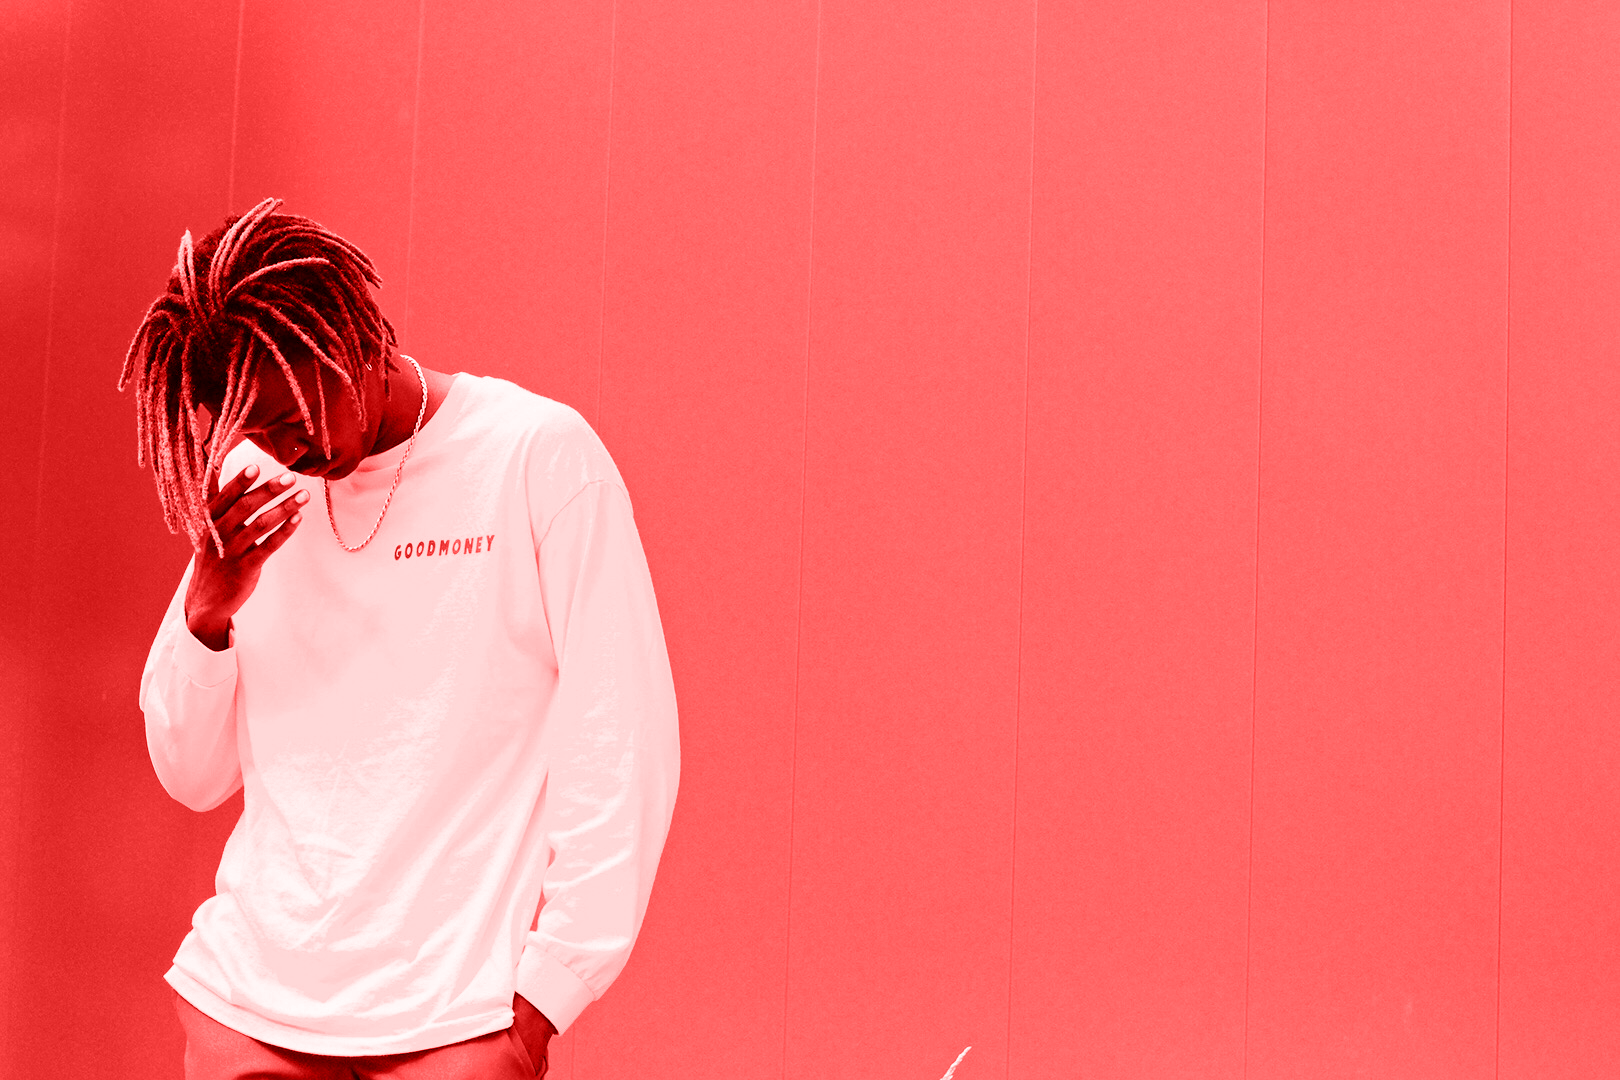
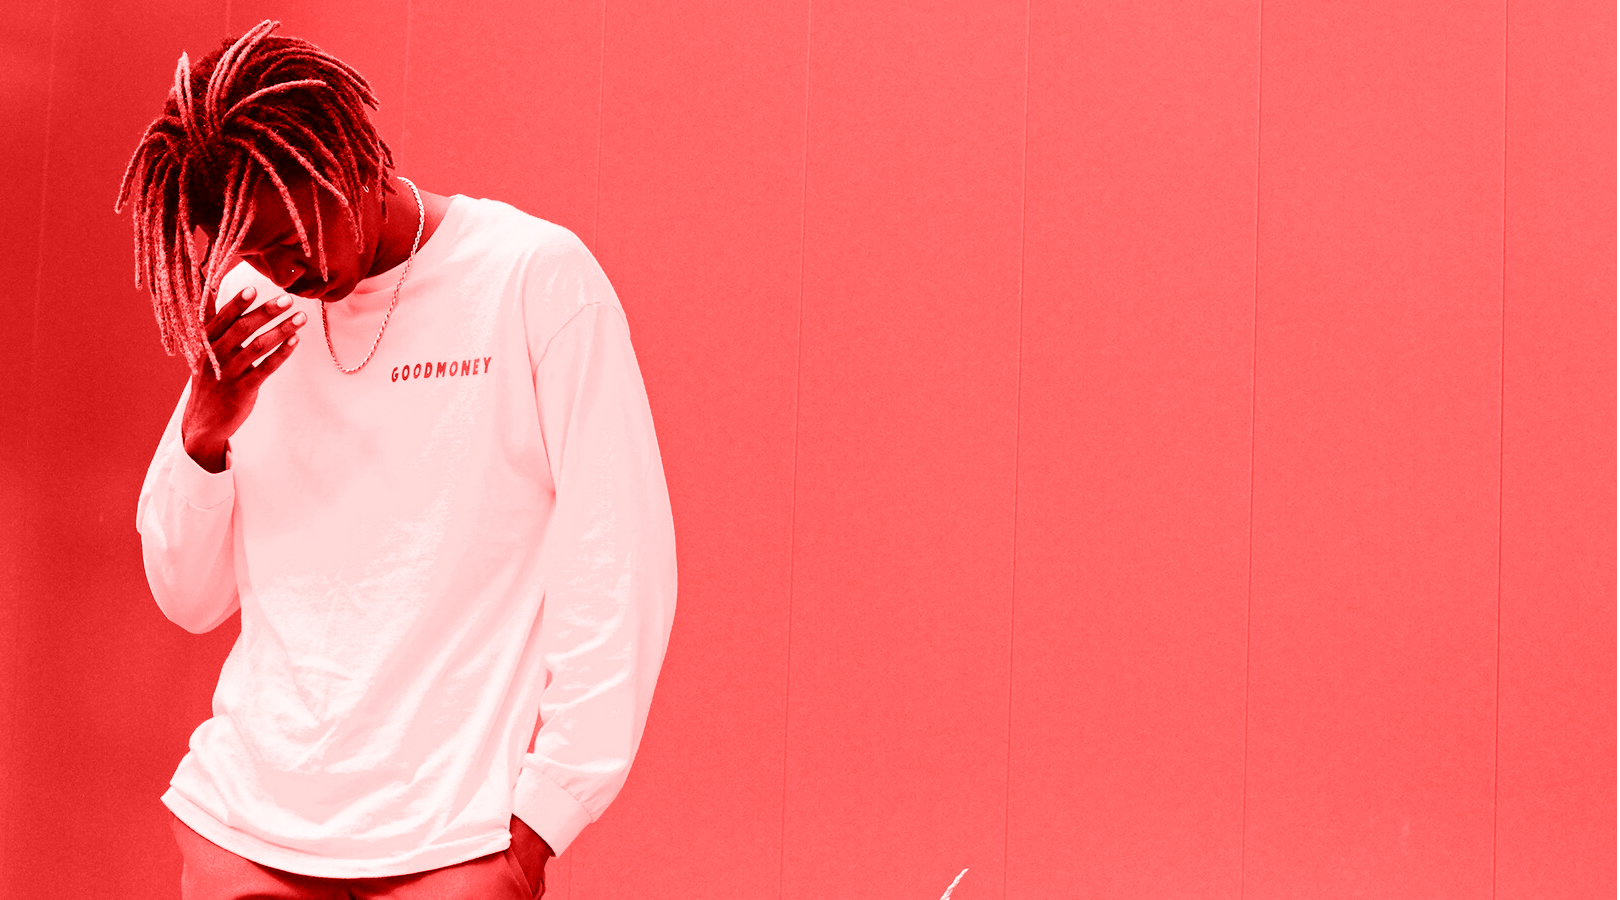
Header and Hero section

diff --git a/index.html b/index.html
@@ -5,12 +5,29 @@
         <meta name="viewport" content="width=device-width, initial-scale=1.0">
         <meta http-equiv="X-UA-Compatible" content="ie=edge">
         <link rel="stylesheet" href="css/style.css">
+        <!-- FONT AWESOME -->
+        <link rel="stylesheet" href="https://cdnjs.cloudflare.com/ajax/libs/font-awesome/5.15.4/css/all.min.css">
+        <title> brvo - Cart </title>
     </head>
     <body>
         <div class="container">
             <header class="site-header">
-                Testing...
+                <div class="site-header__logo-box">
+                    <img src="img/logo.png" alt="logo"/>
+                </div>
+                <div class="site-header__cart-box">
+                    <i class="fas fa-shopping-bag site-header__icon"></i>
+                    <span class="site-header__items"></span>
+                </div>
             </header>
+            <div class="content">
+                <section class="hero">
+                    <div class="hero__title">
+                        <h1 class="display-1"> ABSTRACT </h1>
+                    </div>
+                    <img src="img/hero.png" alt="hero image" class="hero__image img-fluid"/>
+                </section>
+            </div>
         </div>
     </body>
 </html>

diff --git a/css/style.css b/css/style.css
@@ -1,3 +1,4 @@
+@import url("https://fonts.googleapis.com/css2?family=Poppins:wght@400;700&family=Work+Sans:wght@400;700&display=swap");
 * {
   margin: 0;
   padding: 0;
@@ -14,9 +15,52 @@ html {
   font-size: 1rem;
 }
 
+/*
+    FONTS
+*/
+h1, h2, h3, h4 {
+  font-family: "Poppins", sans-serif;
+  font-weight: 700;
+}
+
+/*
+    COLORS
+*/
+/*
+    DISPLAY FONTS
+*/
+.display-1 {
+  font-size: 5rem;
+}
+
 .container {
   max-width: 100%;
-  margin: 2rem;
+  width: 100%;
+  padding: 0 2rem;
+}
+
+.hero__image {
+  height: 900px;
+}
+.hero__title {
+  position: absolute;
+  top: 50%;
+  left: 50%;
+  transform: translate(-50%, -50%);
+  opacity: 0.8;
+  color: #f3f3f3;
+}
+
+.site-header {
+  display: flex;
+  justify-content: space-between;
+  align-items: center;
+  padding: 1.5rem 0;
+}
+
+.img-fluid {
+  max-width: 100%;
+  width: 100%;
 }
 
 /*# sourceMappingURL=style.css.map */

diff --git a/sass/base/_variables.scss b/sass/base/_variables.scss
@@ -3,13 +3,18 @@
 */
 @import url('https://fonts.googleapis.com/css2?family=Poppins:wght@400;700&family=Work+Sans:wght@400;700&display=swap');
 
-$headers-font: 'Poppins', sans-serif;
+$heading-font: 'Poppins', sans-serif;
 $main-font: 'Work Sans', sans-serif;
+
+h1, h2, h3, h4{
+    font-family: $heading-font;
+    font-weight: 700;
+}
 
 /*
     COLORS
 */
-$primary-color: #0f0e1e;
+$primary-color: #0F0E1D;
 $secondary-color: #fe4646;
 $light-color: #f3f3f3;
 

diff --git a/sass/layout/_layout.scss b/sass/layout/_layout.scss
@@ -1,4 +1,20 @@
 .container {
     max-width: 100%;
-    margin: 2rem;
+    width: 100%;
+    padding: 0 2rem;
+}
+
+.hero {
+    &__image {
+        height: 900px;
+    }
+
+    &__title {
+        position: absolute;
+        top: 50%;
+        left: 50%;
+        transform: translate(-50%, -50%);
+        opacity: 0.8;
+        color: $light-color;
+    }
 }

diff --git a/sass/main.scss b/sass/main.scss
@@ -1,3 +1,6 @@
 @import "./base/base";
+@import "./base/variables";
 @import "./base/utilities";
 @import "./layout/layout";
+@import "./components/header";
+@import "./components/image";

diff --git a/sass/components/_header.scss b/sass/components/_header.scss
@@ -1,0 +1,6 @@
+.site-header {
+    display: flex;
+    justify-content: space-between;
+    align-items: center;
+    padding: 1.5rem 0;
+}

diff --git a/sass/base/_utilities.scss b/sass/base/_utilities.scss
@@ -1,0 +1,7 @@
+/*
+    DISPLAY FONTS
+*/
+
+.display-1 {
+    font-size: 5rem;
+}

diff --git a/sass/components/_image.scss b/sass/components/_image.scss
@@ -1,0 +1,4 @@
+.img-fluid {
+    max-width: 100%;
+    width: 100%;
+}
